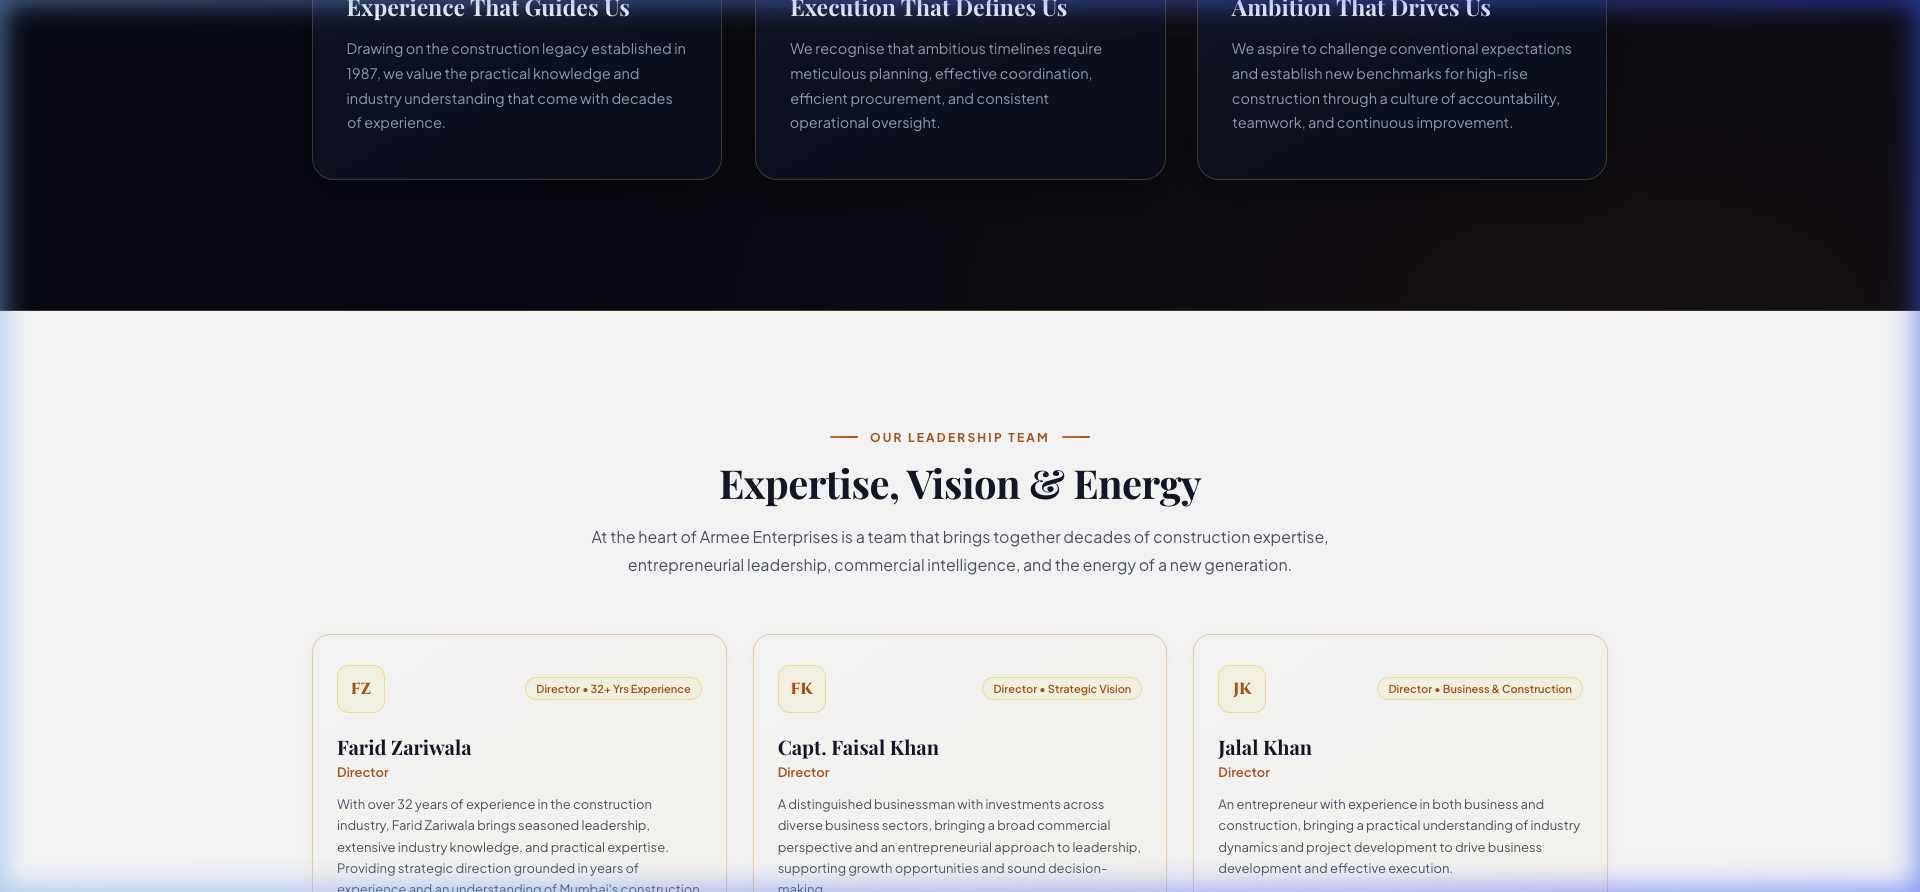
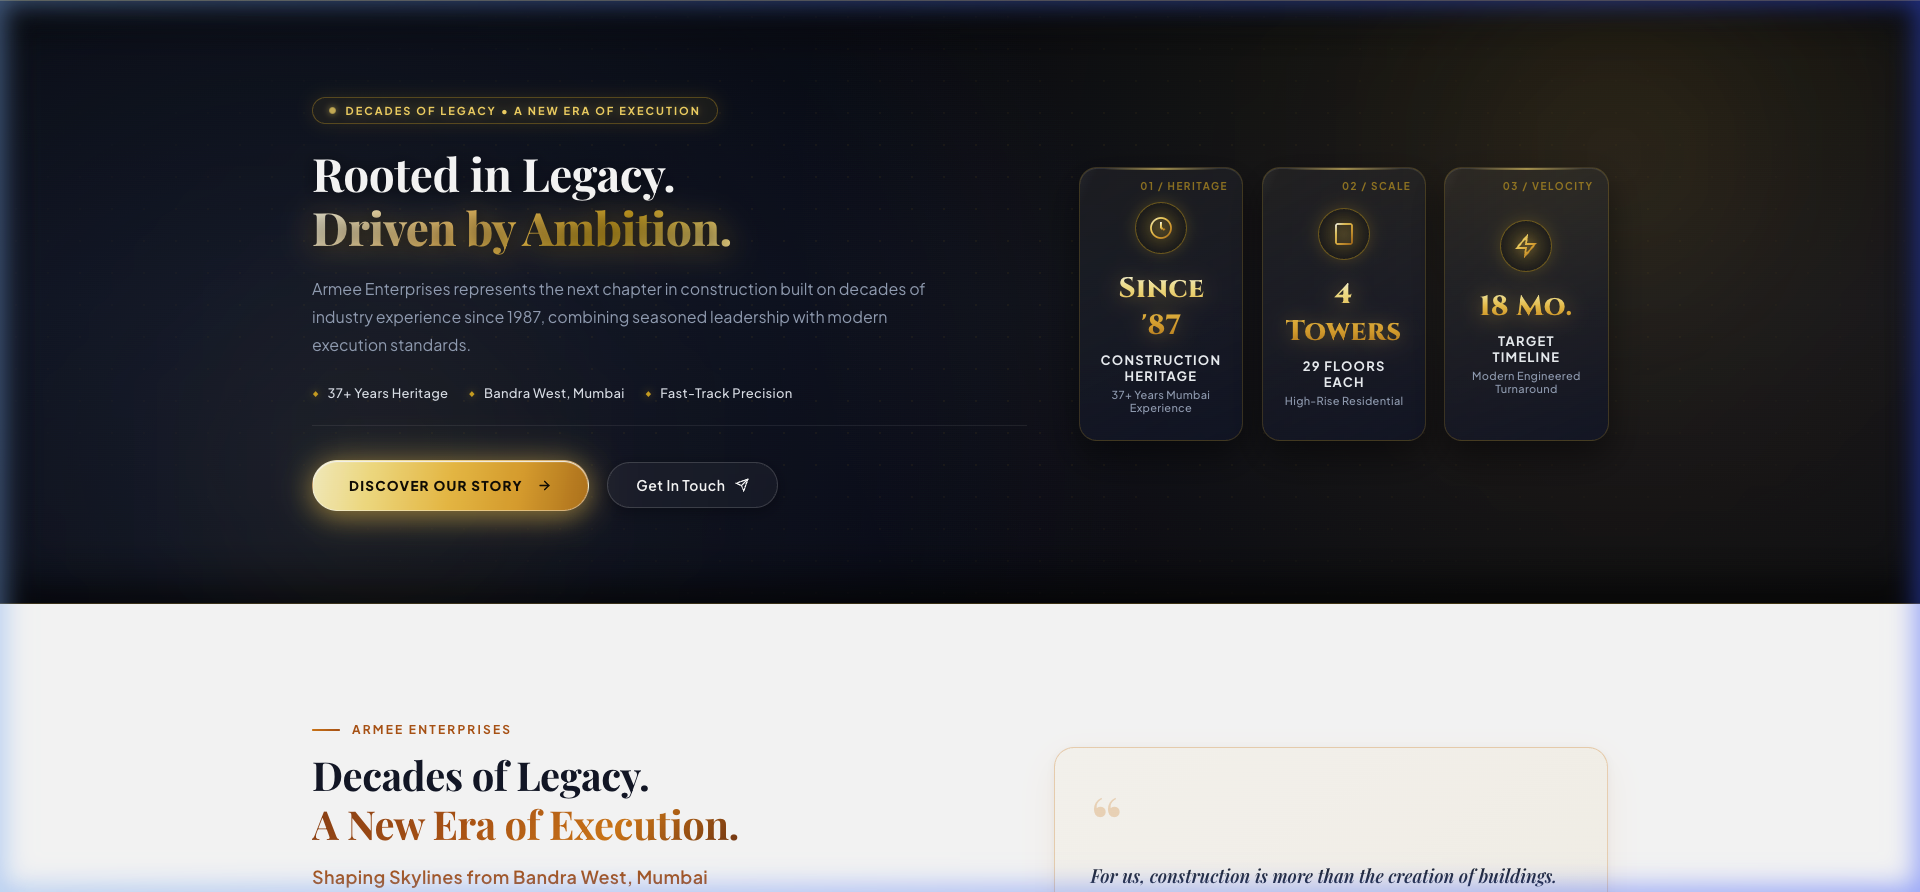
sdf

diff --git a/style.css b/style.css
@@ -1304,8 +1304,8 @@ html {
 
 .site-main-content {
   position: relative;
-  background-color: #FFFFFF;
-  color: #111827;
+  background-color: #060911;
+  color: #FFFFFF;
   overflow: hidden;
 }
 
@@ -1316,47 +1316,11 @@ html {
   padding: 0 32px;
 }
 
-/* Reusable Typography & Eyebrows on Light Background */
-
 /* ==========================================================================
-   EXCLUSIVE NOIR OBSIDIAN & 24K GOLD LUXURY SECTIONS
+   EXCLUSIVE NOIR OBSIDIAN & 24K GOLD LUXURY DESIGN SYSTEM
    ========================================================================== */
 .dark-section {
   color: #FFFFFF;
-}
-
-.dark-section .section-heading {
-  color: #FFFFFF;
-  text-shadow: 0 2px 14px rgba(0, 0, 0, 0.5);
-}
-
-.dark-section .section-lead-paragraph {
-  color: #94A3B8;
-}
-
-.dark-section .eyebrow-caption {
-  color: var(--gold-bright);
-  text-shadow: 0 0 14px rgba(252, 211, 97, 0.45);
-}
-
-.dark-section .eyebrow-accent-bar {
-  background: var(--gold-bar-gradient);
-  box-shadow: 0 0 10px rgba(243, 186, 66, 0.5);
-}
-
-.dark-section .text-gold-gradient {
-  background: var(--gold-text-metallic);
-  -webkit-background-clip: text;
-  -webkit-text-fill-color: transparent;
-  display: inline-block;
-  filter: drop-shadow(0 2px 8px rgba(243, 186, 66, 0.3));
-}
-
-.text-gold-gradient {
-  background: linear-gradient(135deg, #92400E 0%, #B45309 35%, #D97706 70%, #78350F 100%);
-  -webkit-background-clip: text;
-  -webkit-text-fill-color: transparent;
-  display: inline-block;
 }
 
 .section-eyebrow {
@@ -1374,26 +1338,37 @@ html {
 .eyebrow-accent-bar {
   width: 28px;
   height: 2px;
-  background: linear-gradient(90deg, #D97706 0%, #B45309 100%);
+  background: var(--gold-bar-gradient);
+  box-shadow: 0 0 10px rgba(243, 186, 66, 0.5);
   border-radius: 2px;
 }
 
 .eyebrow-caption {
-  font-size: 12px;
+  font-size: 11px;
   font-weight: 700;
   letter-spacing: 2.2px;
   text-transform: uppercase;
-  color: #B45309;
+  color: var(--gold-bright);
+  text-shadow: 0 0 12px rgba(252, 211, 97, 0.45);
 }
 
 .section-heading {
   font-family: var(--font-serif);
-  font-size: 40px;
+  font-size: 42px;
   font-weight: 700;
-  line-height: 1.22;
-  color: #111827;
+  line-height: 1.2;
+  color: #FFFFFF;
   margin-bottom: 16px;
   letter-spacing: -0.5px;
+  text-shadow: 0 2px 16px rgba(0, 0, 0, 0.6);
+}
+
+.text-gold-gradient {
+  background: var(--gold-text-metallic);
+  -webkit-background-clip: text;
+  -webkit-text-fill-color: transparent;
+  display: inline-block;
+  filter: drop-shadow(0 2px 8px rgba(243, 186, 66, 0.35));
 }
 
 .section-header-centered {
@@ -1404,33 +1379,8 @@ html {
 
 .section-lead-paragraph {
   font-size: 16px;
-  line-height: 1.7;
-  color: #4B5563;
-}
-
-/* Secondary Outline Button (Light Theme) */
-.btn-secondary-outline {
-  display: inline-flex;
-  align-items: center;
-  gap: 10px;
-  padding: 13px 28px;
-  border-radius: 100px;
-  border: 1.5px solid #D1D5DB;
-  background: #FFFFFF;
-  color: #1F2937;
-  font-size: 14px;
-  font-weight: 600;
-  letter-spacing: 0.5px;
-  box-shadow: 0 2px 6px rgba(0, 0, 0, 0.04);
-  transition: all var(--transition-smooth);
-}
-
-.btn-secondary-outline:hover {
-  background: #FFFBEB;
-  border-color: #D97706;
-  color: #B45309;
-  transform: translateY(-2px);
-  box-shadow: 0 6px 18px rgba(217, 119, 6, 0.15);
+  line-height: 1.75;
+  color: #94A3B8;
 }
 
 /* --------------------------------------------------------------------------

diff --git a/index.html b/index.html
@@ -12,7 +12,7 @@
   <link href="https://fonts.googleapis.com/css2?family=Cinzel:wght@600;700;800;900&family=Playfair+Display:ital,wght@0,600;0,700;0,800;1,600&family=Plus+Jakarta+Sans:wght@400;500;600;700;800&display=swap" rel="stylesheet">
   
   <!-- Stylesheet -->
-  <link rel="stylesheet" href="style.css">
+  <link rel="stylesheet" href="style.css?v=3">
 </head>
 <body>
 
@@ -550,9 +550,9 @@
     </section>
 
     <!-- ------------------------------------------------------------------
-         SECTION 2: ABOUT US
+         SECTION 2: ABOUT US (DARK NOIR & 24K GOLD LUXURY)
          ------------------------------------------------------------------ -->
-    <section class="section-about" id="about">
+    <section class="section-about dark-section" id="about">
       <div class="content-container">
         <div class="about-grid">
           <div class="about-text-column">
@@ -687,9 +687,9 @@
     </section>
 
     <!-- ------------------------------------------------------------------
-         SECTION 4: OUR LEADERSHIP TEAM
+         SECTION 4: OUR LEADERSHIP TEAM (DARK NOIR & 24K GOLD LUXURY)
          ------------------------------------------------------------------ -->
-    <section class="section-leadership" id="leadership">
+    <section class="section-leadership dark-section" id="leadership">
       <div class="content-container">
         <div class="section-header-centered">
           <div class="section-eyebrow justify-center">
@@ -931,9 +931,9 @@
     </section>
 
     <!-- ------------------------------------------------------------------
-         SECTION 6: OUR TRACK RECORD / FEATURED PROJECTS
+         SECTION 6: OUR TRACK RECORD / FEATURED PROJECTS (DARK NOIR LUXURY)
          ------------------------------------------------------------------ -->
-    <section class="section-projects" id="projects">
+    <section class="section-projects dark-section" id="projects">
       <div class="content-container">
         <div class="section-header-centered">
           <div class="section-eyebrow justify-center">
